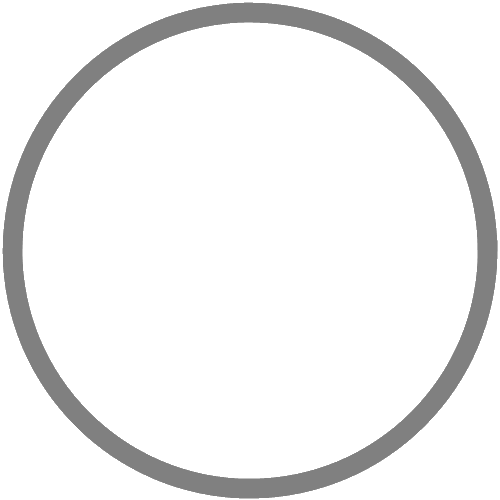
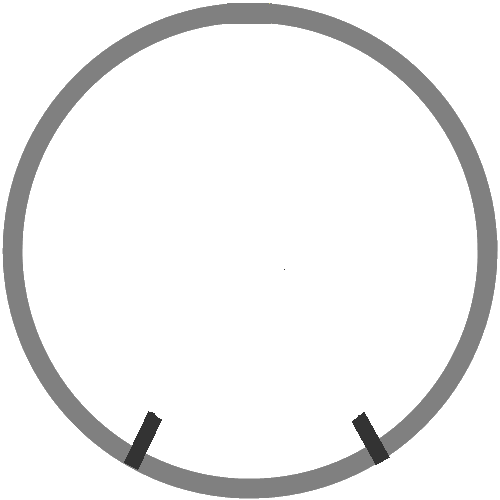
credit screen update

Changed region(s): [[0.24, 0.81, 0.33, 0.93], [0.69, 0.81, 0.78, 0.93], [0.48, 0.03, 0.51, 0.06]]

diff --git a/core/src/main/java/com/sadc/game/screen/CreditsScreen.java b/core/src/main/java/com/sadc/game/screen/CreditsScreen.java
@@ -27,7 +27,7 @@ public class CreditsScreen extends GameScreen {
         spriteBatch = new SpriteBatch();
         titleFont = generator.generateFont(20);
         creditFont = generator.generateFont(15);
-        lightPole = new Texture("lightPole.png");
+        lightPole = new Texture("undergroundSign.png");
         skyLine = new Texture("slyline.png");
         sky = new Texture("datNightSky.png");
         happy = new Texture("happy.png");
@@ -56,7 +56,7 @@ public class CreditsScreen extends GameScreen {
         Gdx.gl.glClear(GL10.GL_COLOR_BUFFER_BIT);
         spriteBatch.begin();
         spriteBatch.draw(sky, 0, 0);
-        spriteBatch.draw(lightPole, 350, -60, 400, 500);
+        spriteBatch.draw(lightPole, 300, 0, 350, 400);
         String creditsText = "Another Year of Taking the Biscuit...";
         titleFont.draw(spriteBatch, creditsText, 60, 400);
         float creditHeight = 325;

diff --git a/desktop/src/main/java/com/badlogic/gradletest/DesktopLauncher.java b/desktop/src/main/java/com/badlogic/gradletest/DesktopLauncher.java
@@ -10,12 +10,12 @@ public class DesktopLauncher {
 	public static void main(String[] arg) {
         //test comment 2
 		LwjglApplicationConfiguration config = new LwjglApplicationConfiguration();
-        config.title = "Hard Line in The Tubes";
+        config.title = "Hard Lines in The Tubes";
         config.vSyncEnabled = true;
         config.useGL20 = true;
 /*        config.height = 1080;
         config.width = 1920;*/
-        //config.fullscreen = true;
+        config.fullscreen = true;
 		new LwjglApplication(new Game(), config);
 	}
 }
